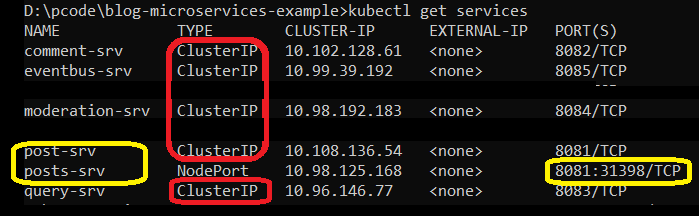
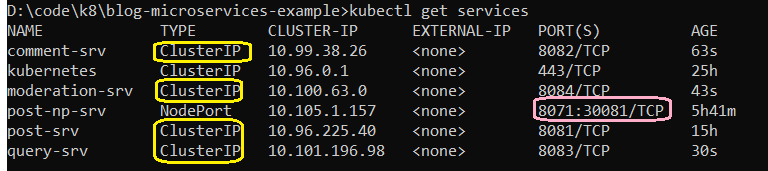
Explanation added for NodePort and how its used

diff --git a/README.md b/README.md
@@ -1,9 +1,24 @@
+<div class="background-color:#232937">
+
 # blog-microservices-example
 It's a sample microservices example repository contains multiple spring boot projects
 
 This repository contains 5 service and 1 Library project and all the data contains within the memory as not database is associated right now.
 
 ![MicroServices](images/blog-microservices-architecture.png)
+
+
+## Plan
+* Dockerize our spring boot application
+* Optimizae dockerazation process in a way, if dependencies are already download and built in a layer must not process them again
+* Write K8 deployment script for each service
+* Deploy k8-deployments on local machine with deployment scripts and run full flow
+* Use Skaffold to run with single command (Development only)
+* Bring a production grade tool for the deployment of K8 services
+
+
+
+# Services
 
 
 ## 1 - common-dtos
@@ -112,22 +127,32 @@ Assumption you are in parent folder
 * `docker build -t blog-moderation-service:01 -f moderation-service/Dockerfile .`
 * `docker build -t blog-event-bus:01 -f event-bus/Dockerfile .`
 
+
+Now all 5 docker images are created locally, we can push them to docker hub or ECR, but for now we will keep them local and use it accordingly
+
 LIST all created Images `docker images`
 
+
+    REPOSITORY                    TAG     IMAGE ID       CREATED          SIZE
+    -----------------------------------------------------------------------------
+    blog-event-bus                01      b242de58c8b0   3 minutes ago    477MB
+    blog-moderation-service       01      fe2e37bf4057   10 minutes ago   477MB
+    blog-query-service            01      ab8d393fbe3a   14 minutes ago   477MB
+    blog-comment-service          01      0843828f21d2   21 minutes ago   477MB
+    blog-post-service             01      83c2302048c5   28 minutes ago   477MB
 
 
 
 ### Run docker Container
+If you want to test services independenly you can run directly run containers and can access them on the associate ports. You can wait for K8 based deployment coming up next.
+
 * `docker run -d --name mic-post -p 8081:8081 blog-post-service:01`
 * `docker run -d --name mic-comment -p 8082:8082 blog-comment-service:01`
 * `docker run -d --name mic-query -p 8083:8083 blog-query-service:01`
 * `docker run -d --name mic-moderation -p 8084:8084 blog-moderation-service:01`
 * `docker run -d --name mic-event-bus -p 8085:8085 blog-event-bus:01`
 
-#### List local images
-
-
-### Useful commands
+## Useful commands
 #### Show docker images
 `docker images`
 
@@ -161,46 +186,87 @@ LIST all created Images `docker images`
 We can start a test container for verification etc
 `docker run -d --name container-name image_name watch "date >> /var/log/date.log"`
 
-## K8 Deployment
-### Deploy post-deployment
+# K8 Deployment
+## Deploy post-deployment
 `kubectl apply -f infrastructure/post-deployment.yml`
 
-#### Useful commands
+This command will create 2 resources one is deployment and the other one is service
+`kubectl get all`
+
+    # [[ SERVICES #kubectl get services ]]
+    NAME                 TYPE        CLUSTER-IP      EXTERNAL-IP   PORT(S)          AGE
+    service/post-srv     ClusterIP   10.96.225.40    <none>        8081/TCP         4h43m
+
+
+    # [[ DEPLOYMENTS #kubectl get deployments ]]
+    NAME                        READY   UP-TO-DATE   AVAILABLE   AGE
+    deployment.apps/post-depl   1/1     1            1           4h43m
+
+
+    # [[ PODs #kubectl get pods ]]
+    NAME                                 DESIRED   CURRENT   READY   AGE
+    replicaset.apps/post-depl-cbdb8565   1         1         1       4h43m
+
+
+![Post k8 Deployment](images/post-k8-deployment.png)
+
+**Deployment is there but its not accessible ** beacuse its inside the cluster and you are sitting outside of the k8 cluster
+
+If you look at the above output we have created following items
+ * A service of type ClusterIP, this will enable internal services to access post 
+ * A deployment that represent the Post microservice
+ * A pod which is part of the deployment, that internally running the container, which incl
+
+## Access our "post deployment"
+Run following command it will create a NodePort service and exposes it to the external world
+
+`kubectl apply -f infrastructure/post-node-port-service.yml`
+
+`kubectl get all`
+
+    # [[ SERVICES #kubectl get services ]]
+    NAME                 TYPE        CLUSTER-IP      EXTERNAL-IP   PORT(S)          AGE
+    service/post-srv     ClusterIP   10.96.225.40    <none>        8081/TCP         4h43m
+    service/post-np-srv    NodePort    10.97.221.159   <none>      8071:30081/TCP   30s
+
+
+    # [[ DEPLOYMENTS #kubectl get deployments ]]
+    NAME                        READY   UP-TO-DATE   AVAILABLE   AGE
+    deployment.apps/post-depl   1/1     1            1           4h43m
+
+
+    # [[ PODs #kubectl get pods ]]
+    NAME                                 DESIRED   CURRENT   READY   AGE
+    replicaset.apps/post-depl-cbdb8565   1         1         1       4h43m
+
+
+![Expose Post k8 Deployment](images/expose-post-k8-deployment.png)
+
+
+### Useful commands
 * kubectl apply -f configuration-file.yml
 * kubectl get deployments
 * kubectl describe deployment post-depl
 * kubectl get pods
 * kubectl delete pod post-depl-23232323
-
-`kubectl rollout restart deployment post-depl`
-
-`kubectl apply -f infrastructure/post-service.yml`
-
-* kubectl get services
+* `kubectl rollout restart deployment post-depl`
 
 
-|NAME            |TYPE        |CLUSTER-IP      |EXTERNAL-IP   |PORT(S)          |AGE    |
-|----------------|------------|----------------|--------------|-----------------|-------|
-|posts-srv       |NodePort    |10.98.51.238    |\<none>        |8081:31496/TCP   |49s    |
+### Access service through node port
+http://localhost:30081/api/v1/posts
 
-#### Access service through node port
-http://localhost:31496/api/v1/posts
-
-### NodePort
-#### Deployment for event bus
+## Deployment for event bus
 `kubectl apply -f infrastructure/event-bus-deployment.yml`
+
 * deployment.apps/eventbus-depl created
 * service/eventbus-srv created
 
 `kubectl rollout restart deployment eventbus-depl`
 
-* `kubectl get services`
+![Event Bus](images/k8-eventbus-post-depl.png)
 
-![NodePort Service](images/nodeport-working.png)
-
-### Cluster IP
-#### Deployment of Post
-deployment files are updated with clusterIP configuration in service area
+## Deployment of Post
+Deployment files are updated with clusterIP configuration in service area
 we will update both eventbus-depl and post-depl in following way
 * Update the codebase of eventbus so that it uses http://post-srv for callback to the post service.
 * Update the codebase of post os that it uses http://eventbus-srv tp publish event.
@@ -210,7 +276,8 @@ we will update both eventbus-depl and post-depl in following way
 * Post service will internally call the eventbus service using ClusterIP
 * EventBus will internally call back post service using ClusterIP
 
-![NodePrt vs ClusterIO](images/nodeport-vs-clusterip.png)
+## Simplified Diagram
+![Simplified Diagram](images/simplified-post-eventbus.png)
 
 
 `kubectl apply -f infrastructure/post-deployment.yml`
@@ -224,7 +291,7 @@ To check the logs if we received the event
 
 `kubectl logs eventbus-depl-xcxkcjxkjc-xcxc`
 
-### Update remaining services
+## Update remaining services
 `kubectl apply -f infrastructure/comment-deployment.yml`
 * deployment.apps/comment-depl created
 * service/comment-srv created
@@ -242,8 +309,26 @@ To check the logs if we received the event
 
 `kubectl apply -f .`
 
+    D:\code\k8\blog-microservices-example\infrastructure>kubectl apply -f .
+    deployment.apps/comment-depl created
+    service/comment-srv created
+    deployment.apps/eventbus-depl created
+    service/eventbus-srv created
+    ingress.networking.k8s.io/ingress-srv unchanged
+    deployment.apps/moderation-depl created
+    service/moderation-srv created
+    deployment.apps/post-depl created
+    service/post-srv created
+    service/post-np-srv created
+    deployment.apps/query-depl created
+    service/query-srv created
+
+
 ### Restart eventbus deployment
 `kubectl rollout restart deployment eventbus-depl`
+
+
+![Running Services](images/all-services-deployed.png)
 
 ![Running Services](images/running-services.png)
 
@@ -297,7 +382,7 @@ https://kubernetes.github.io/ingress-nginx/deploy/#quick-start
 ### Preflight check
 `kubectl get pods --namespace=ingress-nginx`
 
-### Configuring every thing
+## Configuring every thing
 1. Update prefix for comment service to /api/v1/pc
 2. Update prefix for query service to /api/v1/query
 3. Rebuild comment-service image `docker build -t blog-comment-service:01 -f comment-service/Dockerfile .`
@@ -314,6 +399,7 @@ add following entry
 
 `127.0.0.1 local.blog.com`
 
+## Test application
 Now you can access the URLs
 #### Create Post
 * POST http://local.blog.com/api/v1/posts
@@ -322,6 +408,10 @@ Now you can access the URLs
 #### Access Data
 * GET http://local.blog.com/api/v1/query/posts
 * GET http://local.blog.com/api/v1/query/posts/2348b232-5cc8-4af9-b3d4-f61208bfbe86
+
+## Postman project file
+In order to make above call through Postman, you can use this file and import to your postman
+[Postman File](#artifacts/blog-microservices.postman_collection.json)
 
 ![Ingress enabled app](images/ingress-enabled-app.png)
 
@@ -348,3 +438,4 @@ run following command
 `kubectl delete -A ValidatingWebhookConfiguration ingress-nginx-admission`
 
 
+</div>
